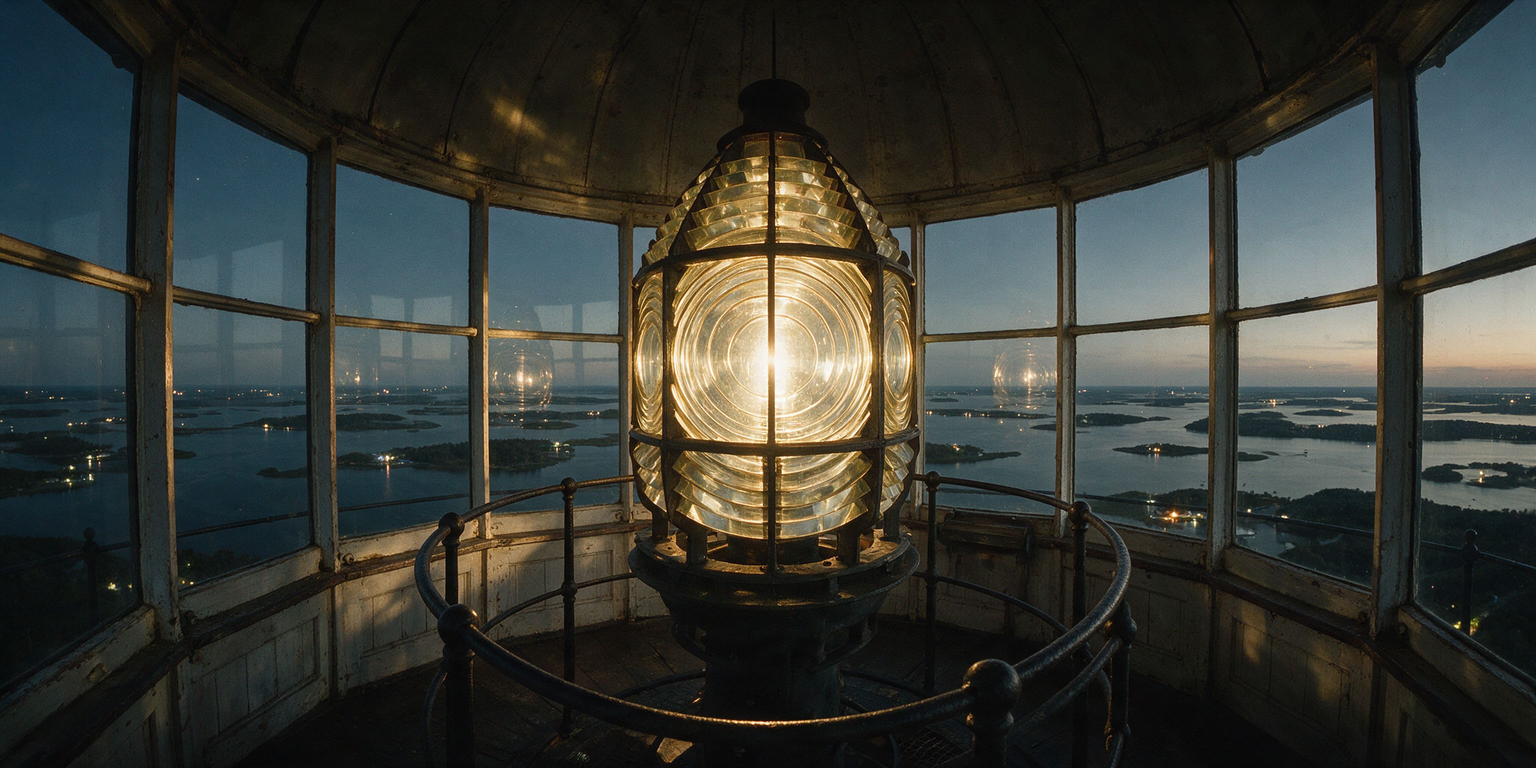
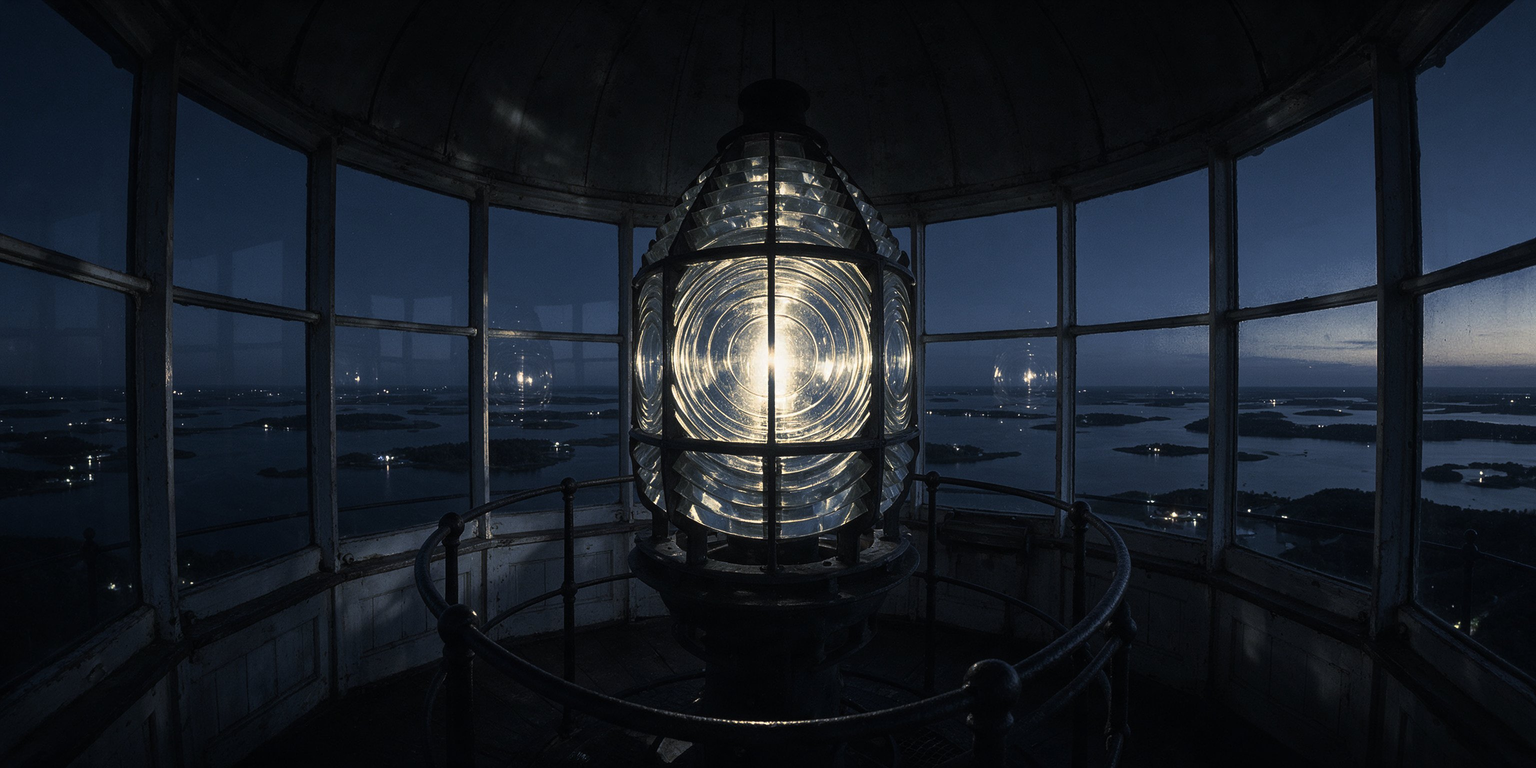
v112b: la lanterna del Faro e' di notte (niente piu' tramonto)
Claude-Session: https://claude.ai/code/session_01P32BM4SisLaExb2eUsXCBc

diff --git a/gioco.js b/gioco.js
@@ -1497,7 +1497,7 @@ const PANORAMI = {
       { x: 0.37, y: 0.22, testo: "Sali sulla lanterna", icona: "stella", fa: "punto:lanterna" },
       { x: 0.65, y: 0.70, testo: "La barca", icona: "mappa", fa: "altrove" },
     ] },
-    lanterna: { img: "img/360/faro-lanterna.jpg", lv: 1, punti: [
+    lanterna: { img: "img/360/faro-lanterna.jpg?v=2", lv: 1, punti: [
       { x: 0.16, y: 0.47, testo: "Guarda chi arriva dal mare", icona: "faro", fa: "scelta:fissa" },
       { x: 0.50, y: 0.47, testo: "La grande lente", icona: "setta", fa: "scelta:setta" },
       { x: 0.50, y: 0.88, testo: "Scendi", icona: "faro", fa: "punto:scogliera" },

diff --git a/index.html b/index.html
@@ -16,6 +16,6 @@
 <script type="importmap">{"imports":{"three":"./vendor/three/build/three.module.min.js","three/addons/":"./vendor/three/examples/jsm/"}}</script>
 <script src="motore.js?v=112"></script>
 <script src="bot.js?v=112"></script>
-<script type="module" src="gioco.js?v=112"></script>
+<script type="module" src="gioco.js?v=112b"></script>
 </body>
 </html>
